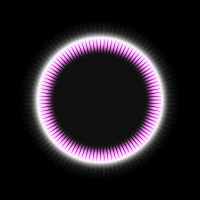
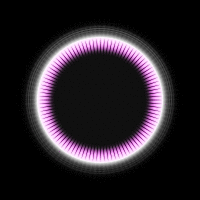
Increase fancyness of fancy progress dialog
git-svn-id: https://svn.code.sf.net/p/dispcalgui/code/trunk@3046 6ae35eb0-b8ff-4ca7-919d-0ec1eff389cd

Changed region(s): [[0.12, 0.12, 0.84, 0.57], [0.84, 0.39, 0.87, 0.6], [0.48, 0.84, 0.51, 0.87]]

diff --git a/dispcalGUI/wxwindows.py b/dispcalGUI/wxwindows.py
@@ -171,13 +171,18 @@ class AnimatedBitmap(wx.PyControl):
 			first_frame, last_frame = self.range
 		else:
 			first_frame, last_frame = 0, -1
+		if first_frame < 0:
+			first_frame += len(self._bitmaps)
 		if last_frame < 0:
 			last_frame += len(self._bitmaps)
-		if self.frame < last_frame:
-			self.frame += 1
+		frame = self.frame
+		if frame < last_frame:
+			frame += 1
 		elif self.loop:
-			self.frame = first_frame
-		self.Refresh()
+			frame = first_frame
+		if frame != self.frame:
+			self.frame = frame
+			self.Refresh()
 
 	def Play(self, fps=20):
 		self._timer.Start(1000.0 / fps)
@@ -3766,11 +3771,51 @@ class BetterPyGauge(pygauge.PyGauge):
 		self.Unbind(wx.EVT_TIMER)
 		self.Bind(EVT_BETTERTIMER, self.OnTimer, self._timer)
 		self.Bind(wx.EVT_WINDOW_DESTROY, self.OnDestroy)
-		self.Start(50)
+		self.Start()
 	
 	def OnDestroy(self, event):
 		self._timer.Stop()
 		del self._timer
+
+	def OnPaint(self, event):
+		"""
+		Handles the ``wx.EVT_PAINT`` event for L{PyGauge}.
+
+		:param `event`: a `wx.PaintEvent` event to be processed.
+		"""
+
+		dc = wx.BufferedPaintDC(self)
+		gc = wx.GraphicsContext.Create(dc)
+		dc.SetBackground(wx.Brush(self.Parent.BackgroundColour))
+		dc.Clear()
+
+		rect = self.GetClientRect()
+
+		if self._border_colour:
+			gc.SetPen(wx.Pen(self._border_colour))
+		else:
+			gc.SetPen(wx.Pen(self.BackgroundColour))
+		gc.SetBrush(wx.Brush(self.BackgroundColour))
+		gc.DrawRoundedRectangle(rect.X, rect.Y, rect.Width - 1,
+								rect.Height - 1, (rect.Height - 1) / 2)
+
+		pad = self.GetBorderPadding()
+		if self._border_colour:
+			pad += 1
+		if pad:
+			rect.Deflate(pad, pad)
+
+		if self._barGradientSorted:
+			for i, gradient in enumerate(self._barGradientSorted):
+				c1, c2 = gradient
+				w = max(rect.Width * (float(self._valueSorted[i]) / self._range),
+						rect.Height)
+				gc.SetBrush(gc.CreateLinearGradientBrush(rect.X, rect.Y,
+														 rect.Y + w,
+														 rect.Y, c1, c2))
+				gc.SetPen(wx.TRANSPARENT_PEN)
+				gc.DrawRoundedRectangle(rect.X, rect.Y, w, rect.Height,
+										(rect.Height) / 2)
 
 	def OnTimer(self, event):
 		gradient = self._barGradient
@@ -4176,7 +4221,7 @@ class ProgressDialog(wx.Dialog):
 	
 	def __init__(self, title=appname, msg="", maximum=100, parent=None, style=None, 
 				 handler=None, keyhandler=None, start_timer=True, pos=None,
-				 pauseable=False, fancy=True):
+				 pauseable=False, fancy=True, allow_close=False):
 		if style is None:
 			style = (wx.PD_APP_MODAL | wx.PD_ELAPSED_TIME |
 					 wx.PD_REMAINING_TIME | wx.PD_CAN_ABORT | wx.PD_SMOOTH)
@@ -4206,6 +4251,7 @@ class ProgressDialog(wx.Dialog):
 		self.skip = False
 		self.paused = False
 		self.progress_type = 0  # 0 = processing, 1 = measurement
+		self.allow_close = allow_close
 
 		margin = 12
 
@@ -4253,8 +4299,7 @@ class ProgressDialog(wx.Dialog):
 		if fancy:
 			self.gauge = BetterPyGauge(self, wx.ID_ANY, range=maximum,
 									   size=(-1, 4))
-			self.gauge.SetBackgroundColour("#202020")
-			self.gauge.SetBorderColour("#0066CC")
+			self.gauge.BackgroundColour = "#003366"
 			self.gauge.SetBarGradients([("#0099CC", "#00CCFF"),
 									    ("#0088BB", "#00BBEE"),
 									    ("#0077AA", "#00AADD"),
@@ -4422,7 +4467,7 @@ class ProgressDialog(wx.Dialog):
 		if hasattr(self, "cancel"):
 			self.cancel.Disable()
 		self.pause_continue.Disable()
-		if not self.timer.IsRunning():
+		if not self.timer.IsRunning() and self.allow_close:
 			self.Destroy()
 		elif self.gauge.GetValue() == self.gauge.GetRange():
 			event.Skip()
@@ -4539,10 +4584,15 @@ class ProgressDialog(wx.Dialog):
 		if self.progress_type == 0:
 			# Processing
 			range = (60, 68)
-		else:
+		elif self.progress_type == 1:
 			# Measuring
+			range = (-1, -1)
+		else:
+			# Generating test patches
 			range = (27, 36)
 		self.animbmp.SetBitmaps(bitmaps, range=range, loop=True)
+		if range[0] == -1:
+			self.animbmp.frame = len(self.animbmp._bitmaps) - 1
 		wx.CallLater(50, lambda: self and self.IsShown() and
 								  self.animbmp.Play(20))
 
@@ -4569,7 +4619,10 @@ class ProgressDialog(wx.Dialog):
 		else:
 			bitmaps = ProgressDialog.bitmaps[progress_type] = []
 			if progress_type == 0:
-				# Processing
+				# Animation for processing
+				for pth in get_data_path("theme/shutter_anim", r"\.png$") or []:
+					im = wx.Image(pth)
+					bitmaps.append(im)
 				for pth in get_data_path("theme/jet_anim", r"\.png$") or []:
 					im = wx.Image(pth)
 					# Blend red
@@ -4577,28 +4630,40 @@ class ProgressDialog(wx.Dialog):
 					# Adjust for background
 					im.AdjustMinMax(1.0 / 255 * 0x14)
 					bitmaps.append(im)
-				# Needs to be exactly 8 images
-				if bitmaps and len(bitmaps) == 8:
+				# Needs to be exactly 17 images
+				if bitmaps and len(bitmaps) == 17:
 					for i in xrange(7):
-						bitmaps.extend(bitmaps[:8])
-					bitmaps.extend(bitmaps[:4])
+						bitmaps.extend(bitmaps[9:17])
+					bitmaps.extend(bitmaps[9:13])
 					# Fade in
-					for i, im in enumerate(bitmaps[:10]):
+					for i, im in enumerate(bitmaps[9:19]):
+						bg = bitmaps[8].ConvertToBitmap()
 						im = im.AdjustChannels(1, 1, 1, i / 10.0)
+						bg.Blend(im.ConvertToBitmap(), 0, 0)
+						bitmaps[i + 9] = bg
+					for i, im in enumerate(bitmaps[:9]):
 						bitmaps[i] = im.ConvertToBitmap()
 					# Normal
-					for i in xrange(50):
-						im = bitmaps[i + 10].Copy()
+					for i in xrange(41):
+						im = bitmaps[i + 19].Copy()
 						im.RotateHue(.05 * (i / 50.0))
-						bitmaps[i + 10] = im.ConvertToBitmap()
+						bitmaps[i + 19] = im.ConvertToBitmap()
 					for i, im in enumerate(bitmaps[60:]):
 						im = im.Copy()
 						im.RotateHue(.05)
 						bitmaps[i + 60] = im.ConvertToBitmap()
 					# Fade out
 					bitmaps.extend(reversed(bitmaps[:60]))
+			elif progress_type == 1:
+				# Animation for measurements
+				for i, pth in enumerate(get_data_path("theme/shutter_anim", r"\.png$") or []):
+					if not i % 2:
+						bmp = wx.Bitmap(pth)
+						bitmaps.append(bmp)
+				if bitmaps and len(bitmaps) == 5:
+					bitmaps.extend(reversed(bitmaps[:5]))
 			else:
-				# Measuring
+				# Animation for generating test patches
 				for pth in get_data_path("theme/patch_anim", r"\.png$") or []:
 					im = wx.Image(pth)
 					bitmaps.append(im)
@@ -4657,6 +4722,8 @@ class ProgressDialog(wx.Dialog):
 		if progress_type != self.progress_type:
 			if self.progress_type == 0:
 				delay = 4000
+			elif self.progress_type == 1:
+				delay = 500
 			else:
 				delay = 2000
 			if hasattr(self, "animbmp"):
@@ -4678,7 +4745,7 @@ class ProgressDialog(wx.Dialog):
 			self.elapsed_timer.Start(1000)
 		if hasattr(self, "animbmp"):
 			self.anim_fadein()
-		if hasattr(self, "sound"):
+		if hasattr(self, "sound") and self.progress_type == 0:
 			self.sound_fadein()
 	
 	def stop_timer(self, immediate=True):
@@ -5449,7 +5516,8 @@ def test():
 	style = (wx.PD_ELAPSED_TIME | wx.PD_REMAINING_TIME | wx.PD_CAN_ABORT |
 			 wx.PD_SMOOTH)
 	p = ProgressDialog(msg="".join(("Test " * 5)), maximum=10000, style=style,
-					   pauseable=True, fancy=not "+fancy" in sys.argv[1:])
+					   pauseable=True, fancy=not "+fancy" in sys.argv[1:],
+					   allow_close=True)
 	#t = SimpleTerminal(start_timer=False)
 	app.MainLoop()
 

diff --git a/dispcalGUI/worker.py b/dispcalGUI/worker.py
@@ -1052,6 +1052,26 @@ class LineCache():
 					  self.cache[-1:])[-self.maxlines - 1:]
 
 
+class Producer(object):
+
+	""" Generic producer """
+
+	def __init__(self, worker, producer, continue_next=False):
+		self.worker = worker
+		self.producer = producer
+		self.continue_next = continue_next
+
+	def __call__(self, *args, **kwargs):
+		result = self.producer(*args, **kwargs)
+		if not self.continue_next and self.worker.progress_wnd:
+			wx.CallAfter(self.worker.progress_wnd.stop_timer, False)
+			if (hasattr(self.worker.progress_wnd, "animbmp") and
+				self.worker.progress_wnd.progress_type == 0):
+				# Allow time for animation fadeout
+				sleep(4)
+		return result
+
+
 class StringWithLengthOverride(UserString):
 
 	""" Allow defined behavior in comparisons and when evaluating length """
@@ -5964,6 +5984,8 @@ usage: spotread [-options] [logfile]
 					self.measurement_sound.safe_play()
 				else:
 					self.commit_sound.safe_play()
+					if hasattr(self.progress_wnd, "animbmp"):
+						self.progress_wnd.animbmp.frame = 0
 
 	def patterngenerator_send(self, rgb, raise_exceptions=False):
 		""" Send RGB color to pattern generator """
@@ -6771,6 +6793,8 @@ usage: spotread [-options] [logfile]
 			if self.pauseable:
 				# If pauseable, we assume it's a measurement
 				progress_type = 1  # Measuring
+			elif self.cmdname == "targen":
+				progress_type = 2  # Generating test patches
 			else:
 				progress_type = 0  # Processing
 			if self.progress_wnd.progress_type != progress_type:
@@ -6882,6 +6906,8 @@ usage: spotread [-options] [logfile]
 			if pauseable:
 				# If pauseable, we assume it's a measurement
 				self.progress_wnd.progress_type = 1  # Measuring
+			elif self.cmdname == "targen":
+				self.progress_wnd.progress_type = 2  # Generating test patches
 			else:
 				self.progress_wnd.progress_type = 0  # Processing
 		if not self.progress_wnd.timer.IsRunning():
@@ -7139,6 +7165,7 @@ usage: spotread [-options] [logfile]
 			# Can't be zero!
 			progress_start = 1
 		self.activated = False
+		self.cmdname = None
 		self.cmdrun = False
 		self.finished = False
 		self.instrument_calibration_complete = False
@@ -7234,8 +7261,9 @@ usage: spotread [-options] [logfile]
 													 progress_msg, parent,
 													 resume, fancy)
 		self.thread = delayedresult.startWorker(self._generic_consumer, 
-												producer, [consumer, 
-														   continue_next] + 
+												Producer(self, producer,
+														 continue_next),
+												[consumer, continue_next] + 
 												list(cargs), ckwargs, wargs, 
 												wkwargs)
 		return True

diff --git a/dispcalGUI/wxaddons.py b/dispcalGUI/wxaddons.py
@@ -28,6 +28,14 @@ def AdjustMinMax(self, minvalue=0.0, maxvalue=1.0):
 wx.Image.AdjustMinMax = AdjustMinMax
 
 
+def Blend(self, bitmap, x, y):
+	""" Blend the given bitmap over the specified position in this bitmap. """
+	dc = wx.MemoryDC(self)
+	dc.DrawBitmap(bitmap, x, y)
+
+wx.Bitmap.Blend = Blend
+
+
 def GetRealClientArea(self):
 	""" Return the real (non-overlapping) client area of a display """
 	# need to fix overlapping ClientArea on some Linux multi-display setups

diff --git a/dispcalGUI/wxfixes.py b/dispcalGUI/wxfixes.py
@@ -110,6 +110,7 @@ if u"phoenix" in wx.PlatformInfo:
 
 	wx.DC.BeginDrawing = lambda self: None
 	wx.DC.DrawRectangleRect = lambda dc, rect: dc.DrawRectangle(rect)
+	wx.DC.DrawRoundedRectangleRect = lambda dc, rect, radius: dc.DrawRoundedRectangle(rect, radius)
 	wx.DC.EndDrawing = lambda self: None
 
 	def ContainsRect(self, *args):
